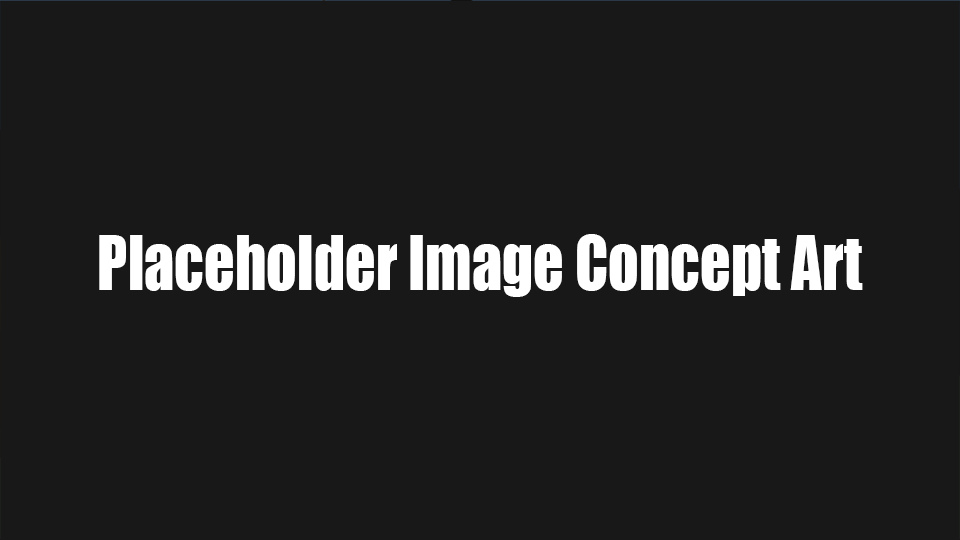
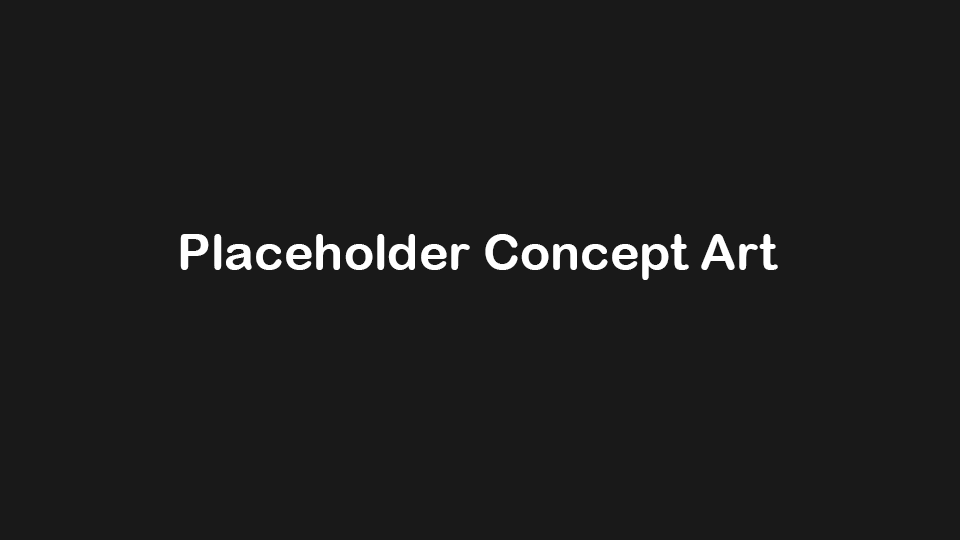
Updated Screenshots

Changed region(s): [[0.0938, 0.4148, 0.9062, 0.563]]

diff --git a/GameProjects/ItsNotThere.html b/GameProjects/ItsNotThere.html
@@ -76,18 +76,19 @@
 				</div>
 				<div class="my-4 container">
 					<div class="p-4 text-center bg-body-tertiary rounded-3">
+						<h3><b>In Game Screenshots</b></h3>
+						<br>
 						<div id="carouselScreenshots" class="carousel slide">
-							<h3><b>In Game Screenshots</b></h3>
-							<br>
+							<div class="carousel-indicators">
+								<button type="button" data-bs-target="#carouselScreenshots" data-bs-slide-to="0" class="active" aria-current="true" aria-label="Slide 1"></button>
+								<button type="button" data-bs-target="#carouselScreenshots" data-bs-slide-to="1" aria-label="Slide 2"></button>
+							</div>
 							<div class="carousel-inner">
 								<div class="carousel-item active">
-									<img src="/images/Screenshots/Subject015 (3).png" class="img-fluid" width="75%" alt="Concept Art">
+									<img src="/images/Screenshots/Placeholder%20Screenshot.png" class="img-fluid" width="75%" alt="Screenshot">
 								</div>
 								<div class="carousel-item">
-									<img src="/images/Screenshots/Subject015 (2).png" class="img-fluid" width="75%" alt="Concept Art">
-								</div>
-								<div class="carousel-item">
-									<img src="/images/Screenshots/Subject015 (1).png" class="img-fluid" width="75%" alt="Concept Art">
+									<img src="/images/Screenshots/Placeholder%20Screenshot.png" class="img-fluid" width="75%" alt="Screenshot">
 								</div>
 							</div>
 							<button class="carousel-control-prev" type="button" data-bs-target="#carouselScreenshots" data-bs-slide="prev">

diff --git a/GameProjects/Subject015.html b/GameProjects/Subject015.html
@@ -58,13 +58,13 @@
 							</div>
 							<div class="carousel-inner">
 								<div class="carousel-item active">
-									<img src="/images/Screenshots/Subject015 (3).png" class="img-fluid" width="75%" alt="Concept Art">
+									<img src="/images/Screenshots/Subject015 (3).png" class="img-fluid" width="75%" alt="Screenshot">
 								</div>
 								<div class="carousel-item">
-									<img src="/images/Screenshots/Subject015 (2).png" class="img-fluid" width="75%" alt="Concept Art">
+									<img src="/images/Screenshots/Subject015 (2).png" class="img-fluid" width="75%" alt="Screenshot">
 								</div>
 								<div class="carousel-item">
-									<img src="/images/Screenshots/Subject015 (1).png" class="img-fluid" width="75%" alt="Concept Art">
+									<img src="/images/Screenshots/Subject015 (1).png" class="img-fluid" width="75%" alt="Screenshot">
 								</div>
 							</div>
 							<button class="carousel-control-prev" type="button" data-bs-target="#carouselScreenshots" data-bs-slide="prev">

diff --git a/GameProjects/RobotUprising.html b/GameProjects/RobotUprising.html
@@ -55,10 +55,10 @@
 							</div>
 							<div class="carousel-inner">
 								<div class="carousel-item active">
-									<img src="/images/Concept%20Art/Placeholder%20Concept%20Art.png" class="img-fluid" width="75%" alt="Concept Art">
+									<img src="/images/Screenshots/Placeholder%20Screenshot.png" class="img-fluid" width="75%" alt="Screenshot">
 								</div>
 								<div class="carousel-item">
-									<img src="/images/Concept%20Art/Placeholder%20Concept%20Art.png" class="img-fluid" width="75%" alt="Concept Art">
+									<img src="/images/Screenshots/Placeholder%20Screenshot.png" class="img-fluid" width="75%" alt="Screenshot">
 								</div>
 							</div>
 							<button class="carousel-control-prev" type="button" data-bs-target="#carouselScreenshots" data-bs-slide="prev">
